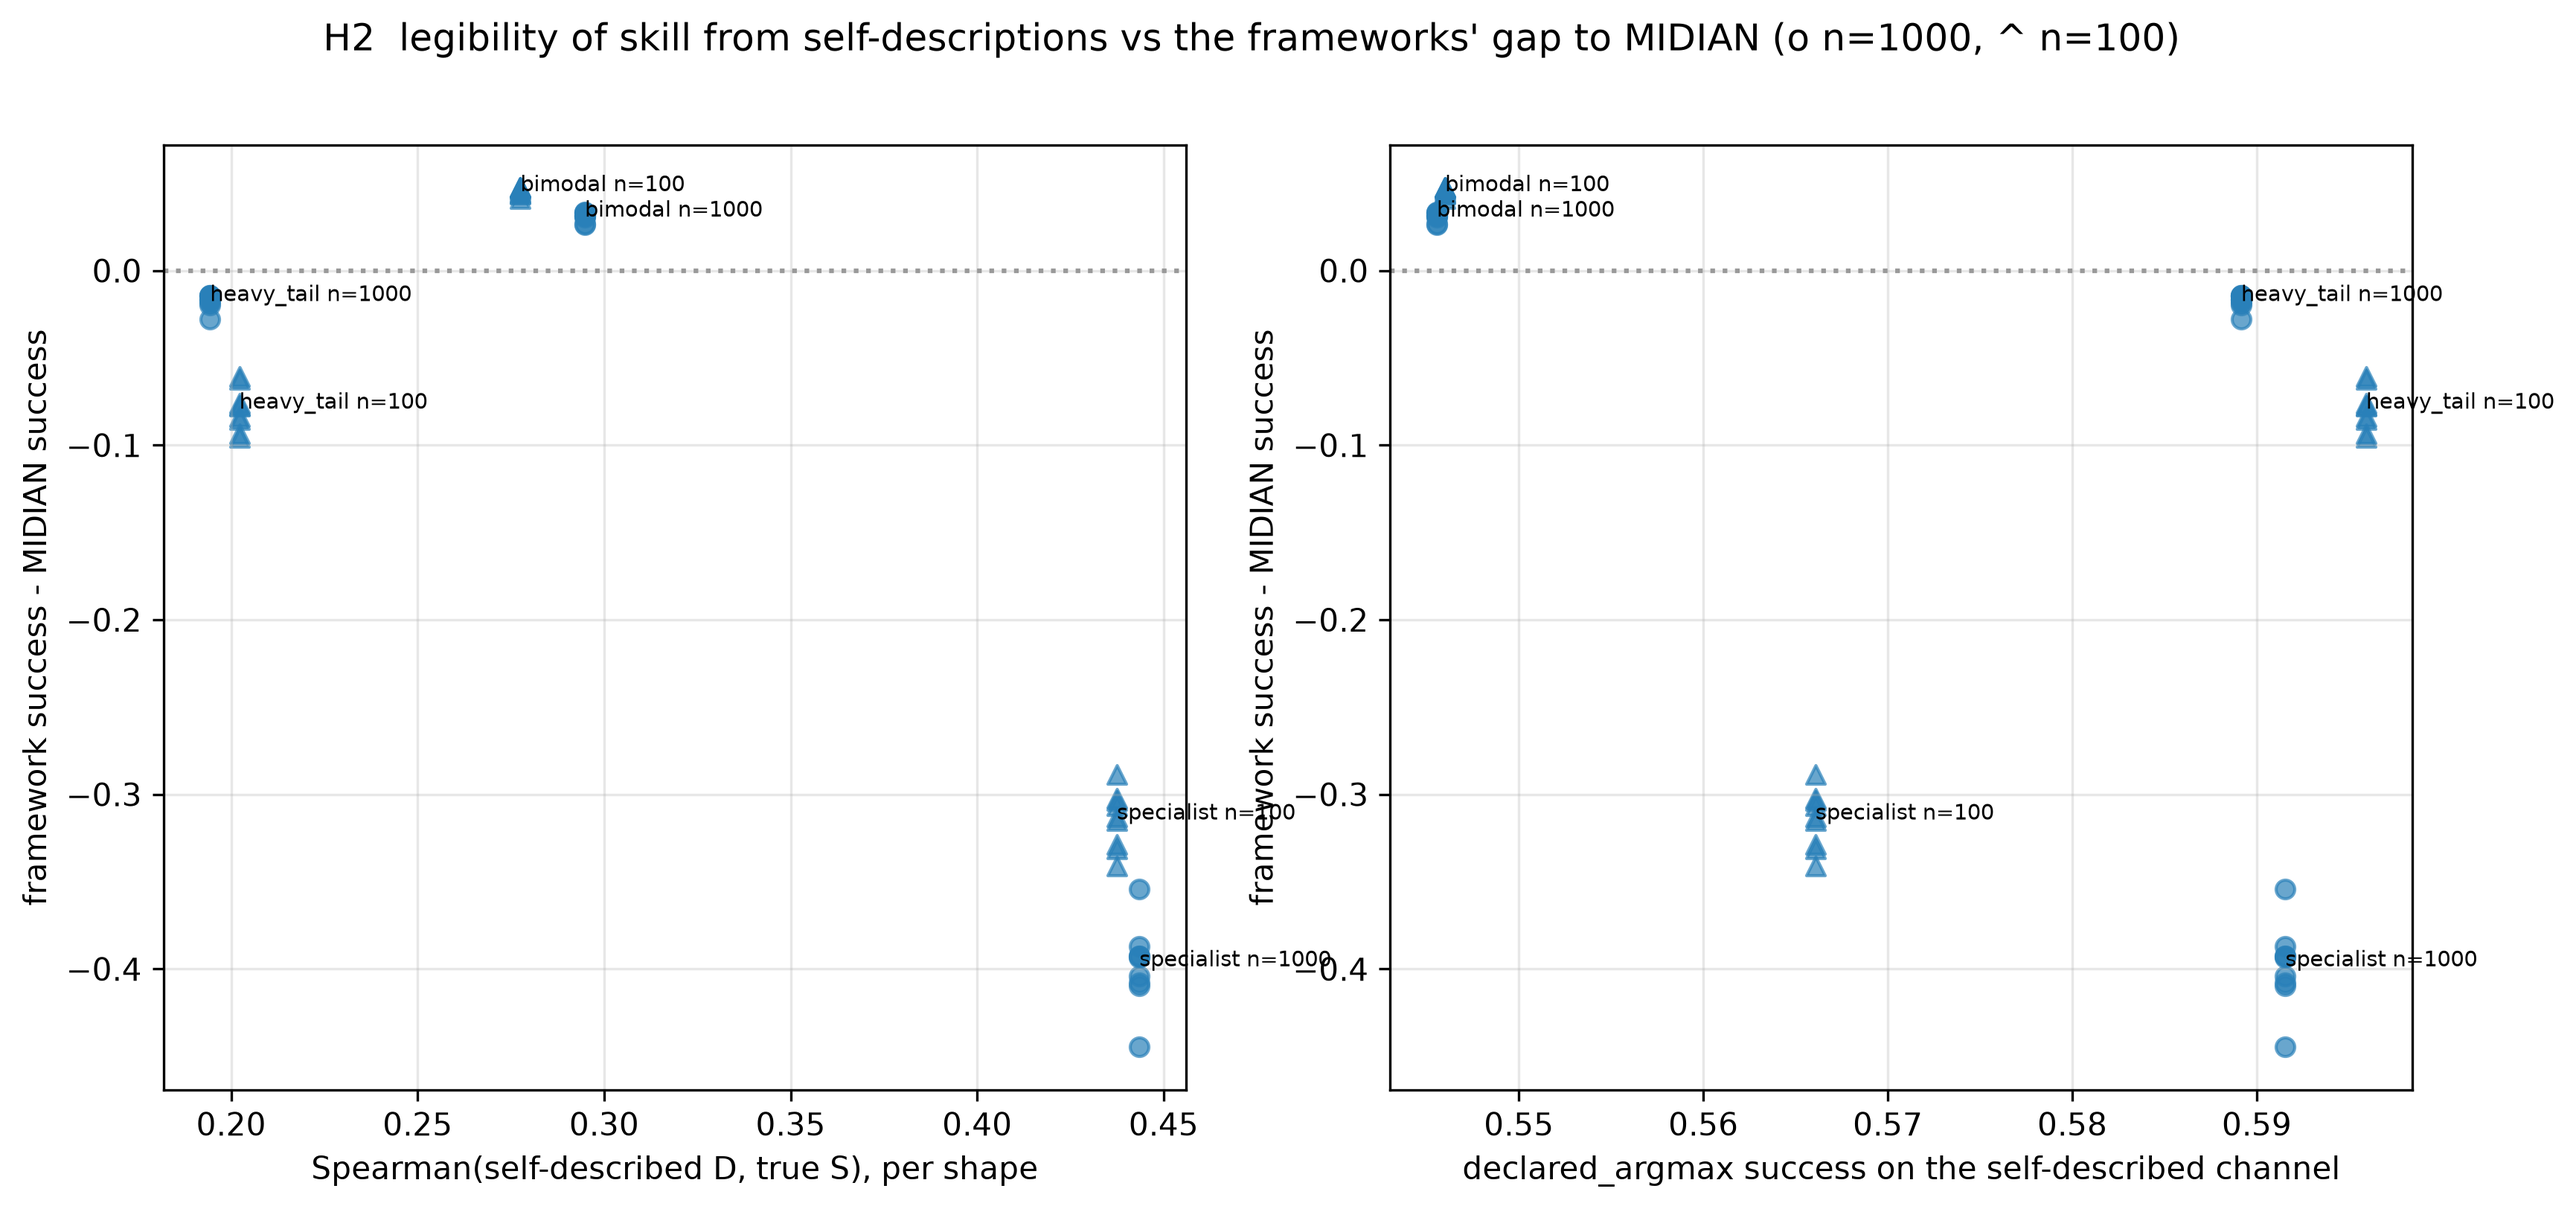
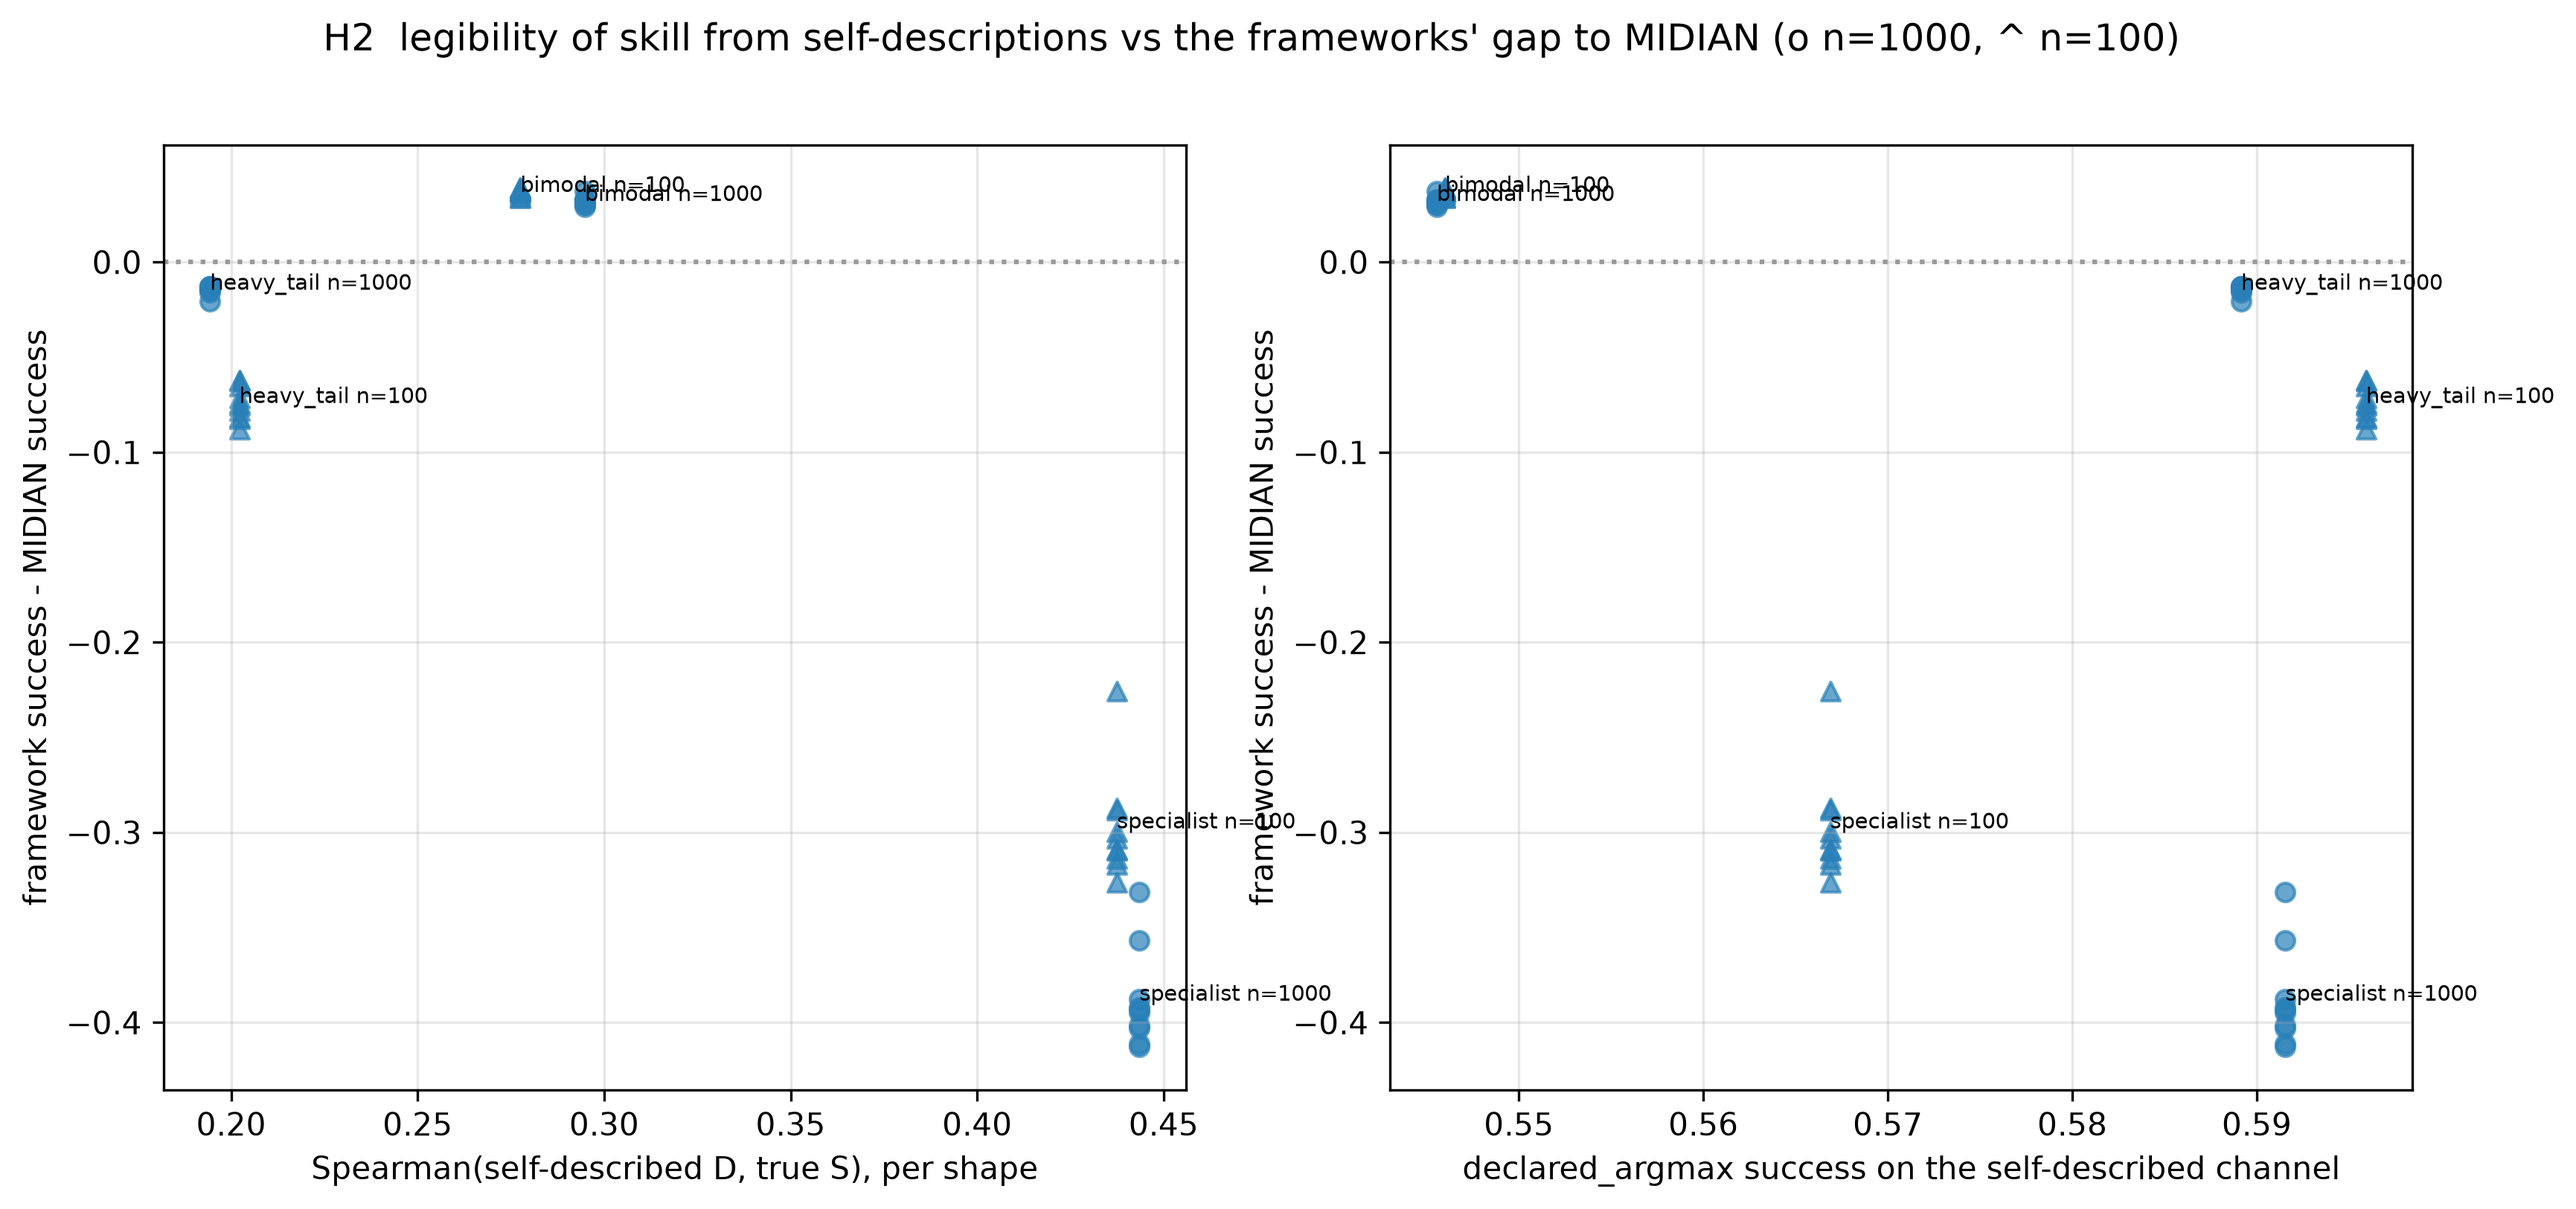
finish_v2: analyses and figures after the v2 grids closed (2026-09-03 11:30)

diff --git a/STATUS.md b/STATUS.md
@@ -106,3 +106,5 @@ flat_probe_argmax and (online); frameworks fw_* and fw_*(retrieval=midian, r∈{
 3. Cleanup: `python -m rte.llm_client compact` (merge memo shards) after the last job; scancel replicas; keep the fleet until done.
 
 **2026-09-03 05:57 — finish_v2 (unattended): RAN PREMATURELY at 05:57 (its squeue poll failed once; grids were NOT closed — corrected in fdaae8f, resubmitted as job 44175864); analyses, targets_v2 merge (results/v2_targets) and figures regenerated. Next: fill RESULTS_rte_v2.md TODO(grid) markers from the summaries.**
+
+**2026-09-03 11:30 — finish_v2 (unattended): all v2 grids closed (3 consecutive empty polls); analyses, targets_v2 merge (results/v2_targets) and figures regenerated. Next: fill RESULTS_rte_v2.md TODO(grid) markers from the summaries.**
